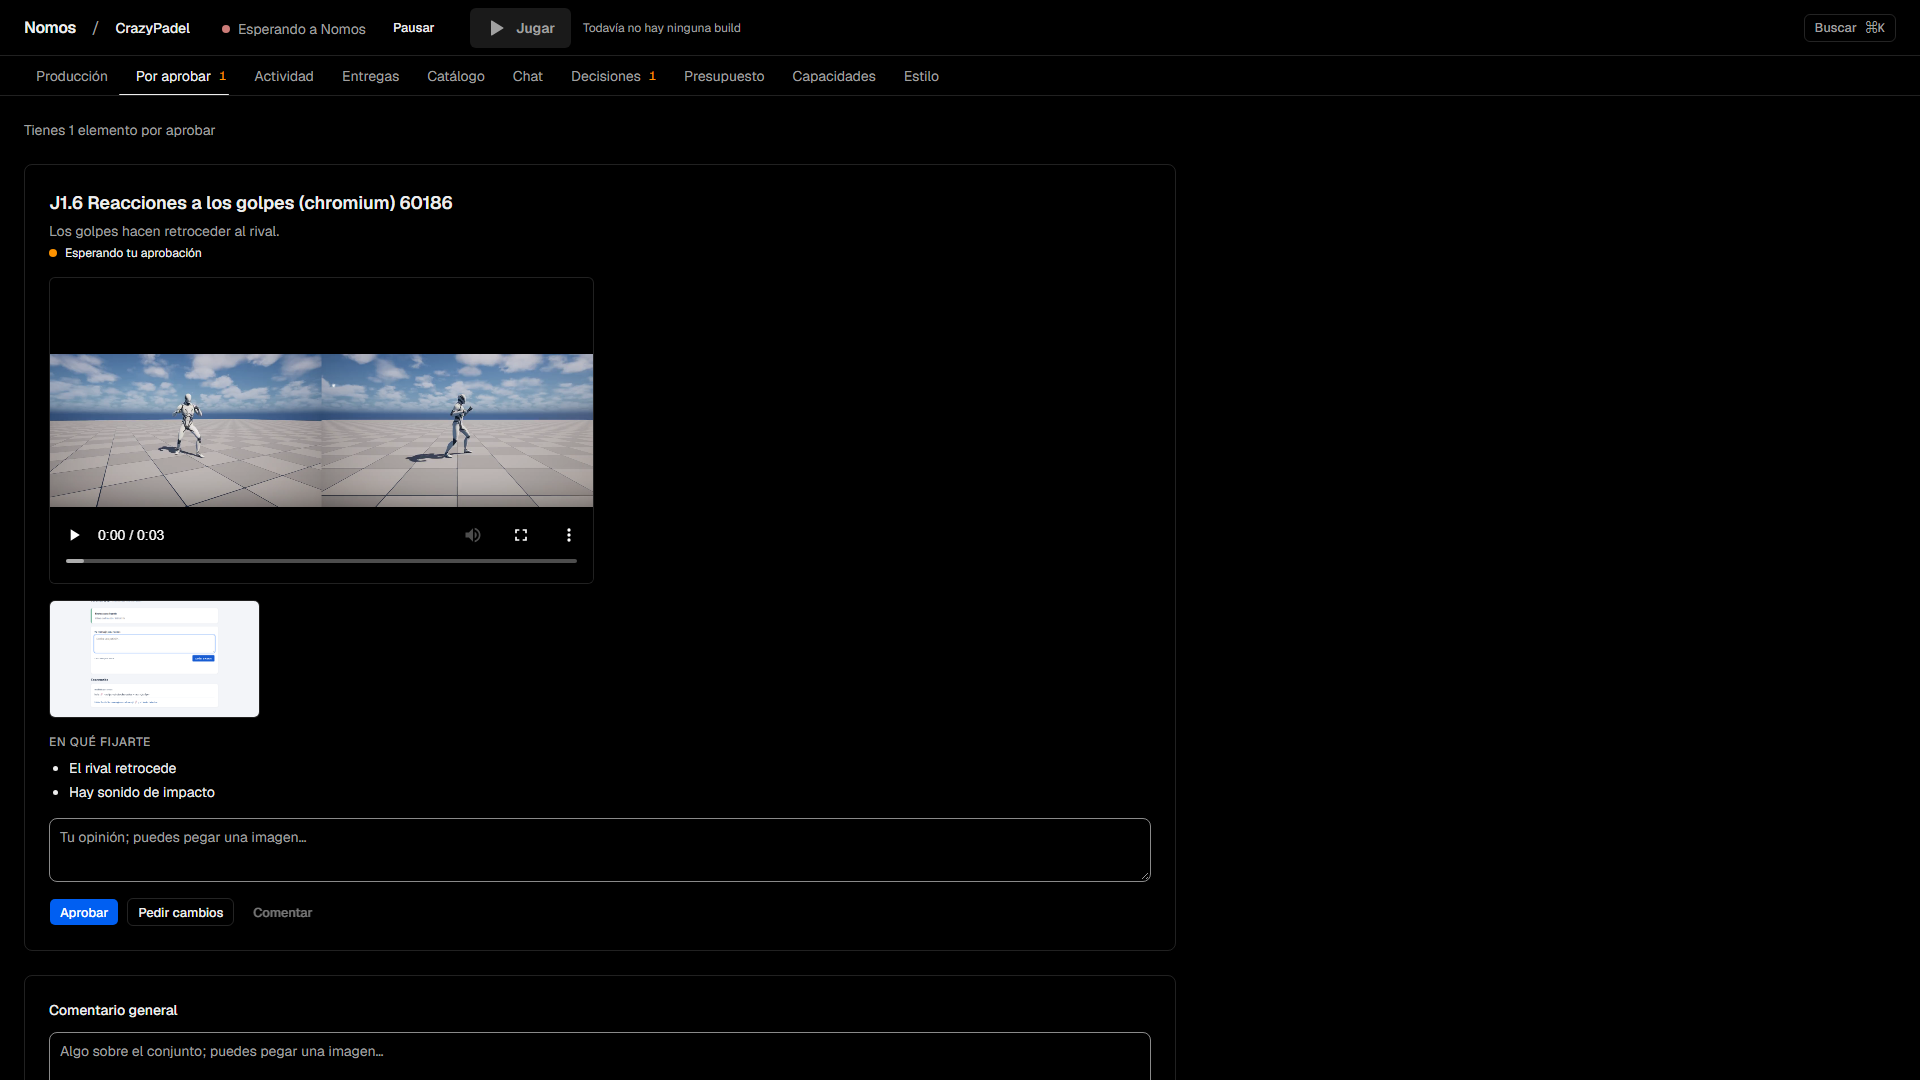
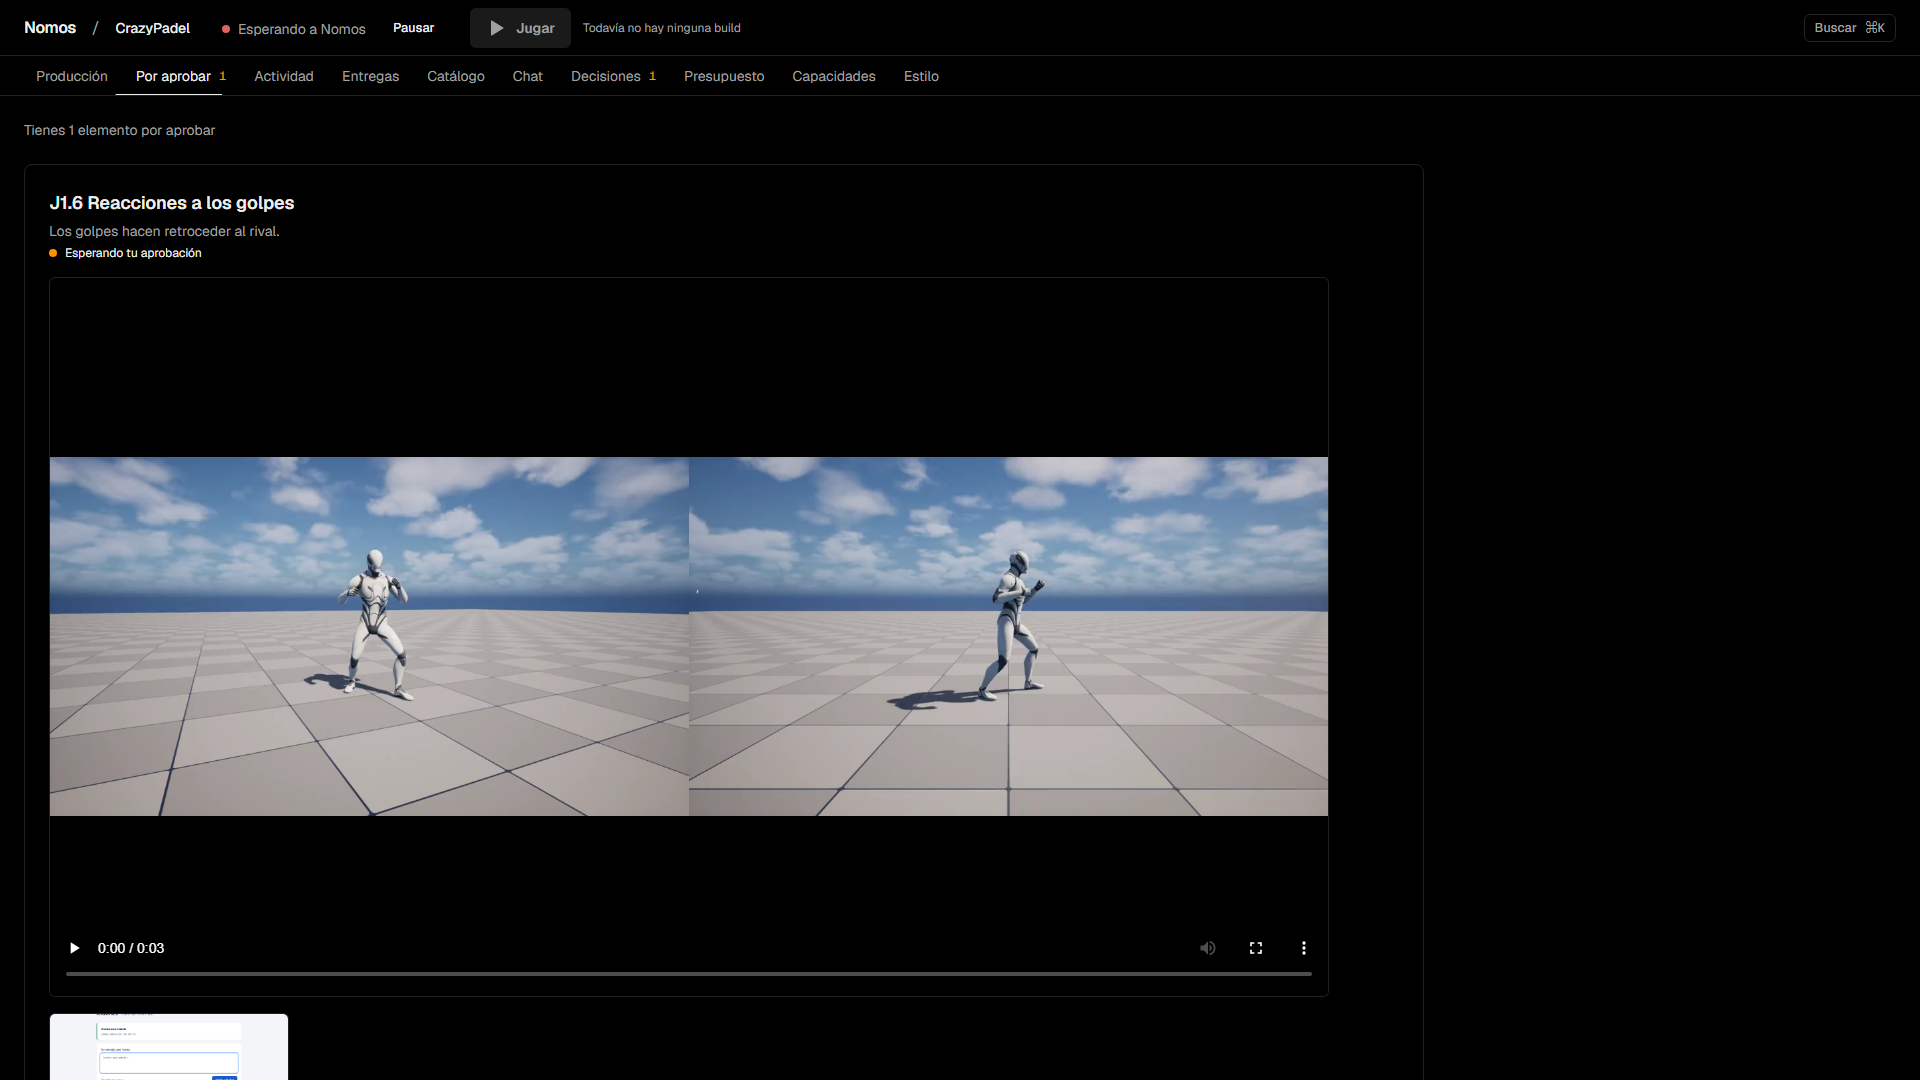
fix: en Por aprobar el vídeo se ve grande para juzgar un golpe
El vídeo de cada elemento ocupa todo el ancho útil de la tarjeta (máximo
1280 px, 16:9, controles nativos) y la tarjeta usa el ancho de la página
hasta 1400 px; las imágenes van debajo en tira, con el visor grande al
clic. La e2e mide el vídeo a 1920 y la captura usa un título de fixture
limpio.

Changed region(s): [[0.0, 0.3056, 0.7188, 0.7944], [0.0, 0.825, 0.6875, 1.0], [0.1562, 0.1833, 0.25, 0.2139]]

diff --git a/panel/src/views/ApprovalCard.tsx b/panel/src/views/ApprovalCard.tsx
@@ -18,11 +18,12 @@ const label = 'text-xs font-medium tracking-wider text-muted-foreground uppercas
 function Video({ a }: { a: Artifact }) {
   const src = useAuthedSrc(file(a)), poster = useAuthedSrc(a.previewPath ? `/artifacts/${encodeURIComponent(a.id)}/preview` : null)
   return src ? <video controls preload="metadata" playsInline src={src} poster={poster ?? undefined} aria-label={viewerName(a)}
-    className="aspect-video w-full rounded-md border border-subtle bg-card" /> : <div className="aspect-video w-full rounded-md bg-card" />
+    className="aspect-video w-full max-w-[1280px] rounded-md border border-subtle bg-black object-contain" />
+    : <div className="aspect-video w-full max-w-[1280px] rounded-md bg-card" />
 }
 function Thumb({ a, onOpen }: { a: Artifact; onOpen: (el: HTMLElement) => void }) {
   const src = useAuthedSrc(file(a)), name = viewerName(a)
-  return <li className="aspect-video overflow-hidden rounded-md border border-subtle bg-card">
+  return <li className="aspect-video w-60 shrink-0 overflow-hidden rounded-md border border-subtle bg-card">
     <ViewerButton name={name} onOpen={onOpen}>{src && <img src={src} alt={name} width={320} height={180} loading="lazy" className="size-full object-cover" />}</ViewerButton>
   </li>
 }
@@ -61,8 +62,9 @@ export function ApprovalCard({ item, open, patch }: {
         {item.summary && <p className="text-sm text-muted-foreground">{item.summary}</p>}
         <span role="status" className="flex items-center gap-2 text-xs"><StatusDot tone={pending ? 'warning' : item.state === 'approved' ? 'success' : 'neutral'} />{stateText[item.state]}</span>
       </header>
-      {videos.length > 0 && <div className="grid gap-3 lg:grid-cols-2">{videos.map((a) => <Video key={a.id} a={a} />)}</div>}
-      {images.length > 0 && <ul aria-label="Imágenes" className="grid grid-cols-[repeat(auto-fill,minmax(200px,1fr))] gap-3">
+      {/* para juzgar un golpe hay que verlo grande: cada vídeo a todo el ancho útil (máx. 1280 px); las imágenes, debajo en tira */}
+      {videos.length > 0 && <div className="flex flex-col gap-3">{videos.map((a) => <Video key={a.id} a={a} />)}</div>}
+      {images.length > 0 && <ul aria-label="Imágenes" className="flex gap-3 overflow-x-auto pb-1">
         {images.map((a) => <Thumb key={a.id} a={a} onOpen={(el) => open(a.id, el)} />)}
       </ul>}
       {!item.evidence.length && <p className="text-sm text-muted-foreground">Aún no hay vídeo ni imágenes de este elemento.</p>}

diff --git a/panel/e2e/aprobar.spec.ts b/panel/e2e/aprobar.spec.ts
@@ -28,7 +28,8 @@ function evidence(taskId: string) {
 }
 
 test('Por aprobar enseña vídeo e imágenes por elemento; comentar y aprobar responden en el acto', async ({ page, browserName }) => {
-  const title = `J1.6 Reacciones a los golpes (${browserName}) ${Date.now() % 100000}`
+  // título limpio en la captura (chromium); el de firefox se distingue para no repetir elemento
+  const title = browserName === 'chromium' ? 'J1.6 Reacciones a los golpes' : 'J1.7 Derribo que llega al suelo'
   const task = await (await call(page, '/tasks', { title, area: 'gameplay', acceptance: ['El rival retrocede', 'Hay sonido de impacto'],
     spec: '## Qué\nLos golpes hacen retroceder al rival.\n\n## Por qué\nSensación de juego.' })).json() as { id: string }
   evidence(task.id)
@@ -43,6 +44,15 @@ test('Por aprobar enseña vídeo e imágenes por elemento; comentar y aprobar re
   await expect(video).toHaveAttribute('controls', '')
   expect(await video.evaluate((v: HTMLVideoElement) => v.autoplay)).toBe(false)
   await expect.poll(() => video.evaluate((v: HTMLVideoElement) => v.readyState)).toBeGreaterThan(0)
+  if (browserName === 'chromium') {
+    // para juzgar un golpe el vídeo se ve grande: todo el ancho útil de la tarjeta, hasta 1280 px, en 16:9
+    const box = (await video.boundingBox())!, cardBox = (await card.boundingBox())!
+    expect(box.width).toBe(1280)
+    expect(Math.round(box.width / box.height * 100) / 100).toBeCloseTo(16 / 9, 1)
+    expect(cardBox.width).toBeGreaterThan(1300); expect(cardBox.width).toBeLessThanOrEqual(1400)
+    const strip = (await card.getByRole('list', { name: 'Imágenes' }).boundingBox())!
+    expect(strip.y).toBeGreaterThan(box.y + box.height - 1)
+  }
   await expect(card.getByRole('list', { name: 'Imágenes' }).getByRole('img')).toBeVisible()
   await expect(card.getByText('El rival retrocede')).toBeVisible()
   await expect(card).not.toContainText(/\.(mp4|png)\b|[0-9a-f]{8}-[0-9a-f]{4}/)

diff --git a/panel/src/views/PorAprobar.test.tsx b/panel/src/views/PorAprobar.test.tsx
@@ -34,7 +34,11 @@ describe('Por aprobar', () => {
     const video = card.querySelector('video')!
     await waitFor(() => expect(video).toHaveAttribute('src'))
     expect(video).toHaveAttribute('controls'); expect(video.autoplay).toBe(false)
-    expect(within(card).getByRole('list', { name: 'Imágenes' })).toBeInTheDocument()
+    const strip = within(card).getByRole('list', { name: 'Imágenes' })
+    // lo visual manda: el vídeo a todo el ancho (máx. 1280, 16:9) y las imágenes debajo, en tira
+    expect(video).toHaveClass('w-full', 'max-w-[1280px]', 'aspect-video')
+    expect(strip).toHaveClass('flex', 'overflow-x-auto')
+    expect(video.compareDocumentPosition(strip) & Node.DOCUMENT_POSITION_FOLLOWING).toBeTruthy()
     expect(within(card).getByText('Mira el retroceso al tercer golpe')).toBeInTheDocument()
     expect(screen.getByText('Tienes 1 elemento por aprobar')).toBeInTheDocument()
     expect(document.body.textContent).not.toMatch(ids)

diff --git a/panel/src/views/PorAprobar.tsx b/panel/src/views/PorAprobar.tsx
@@ -55,7 +55,7 @@ export function PorAprobar() {
   if (loading) return slow ? <div role="status" aria-label="Cargando lo que está por aprobar" className="flex flex-col gap-3">{Array.from({ length: 2 }, (_, i) => <Skeleton key={i} className="h-64" />)}</div> : null
   const pending = items.filter((i) => i.state === 'pending').length
   return (
-    <div className="flex max-w-6xl flex-col gap-6">
+    <div className="flex w-full max-w-[1400px] flex-col gap-6">
       <h2 role="status" className="text-sm text-muted-foreground">
         {pending === 0 ? 'Nada por aprobar ahora' : pending === 1 ? 'Tienes 1 elemento por aprobar' : `Tienes ${pending} elementos por aprobar`}
       </h2>
